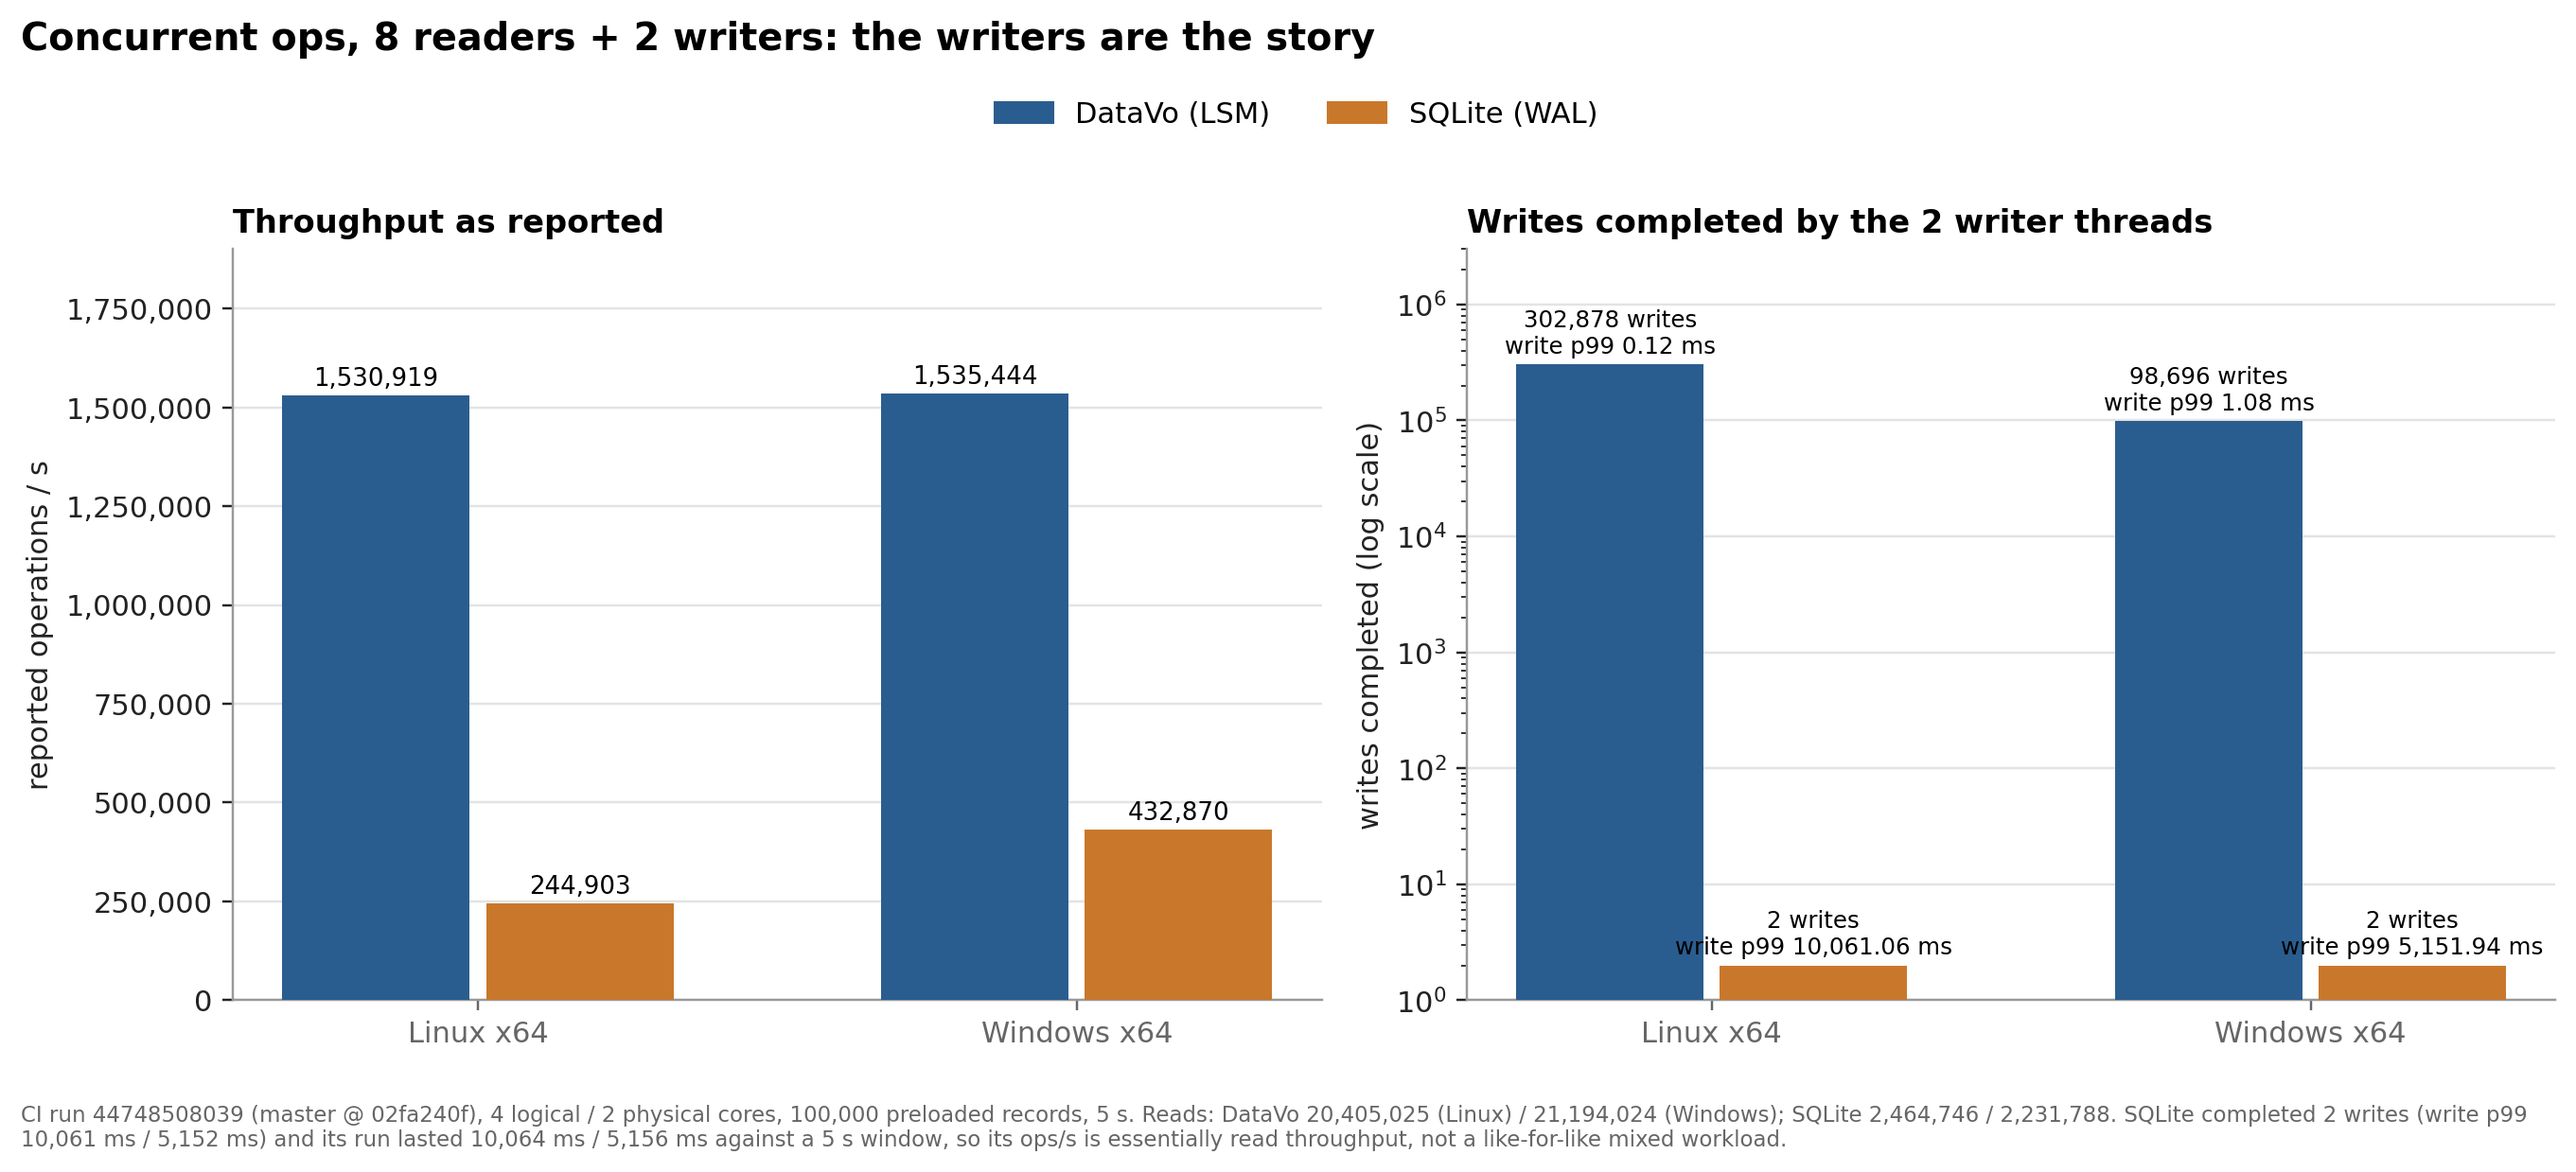
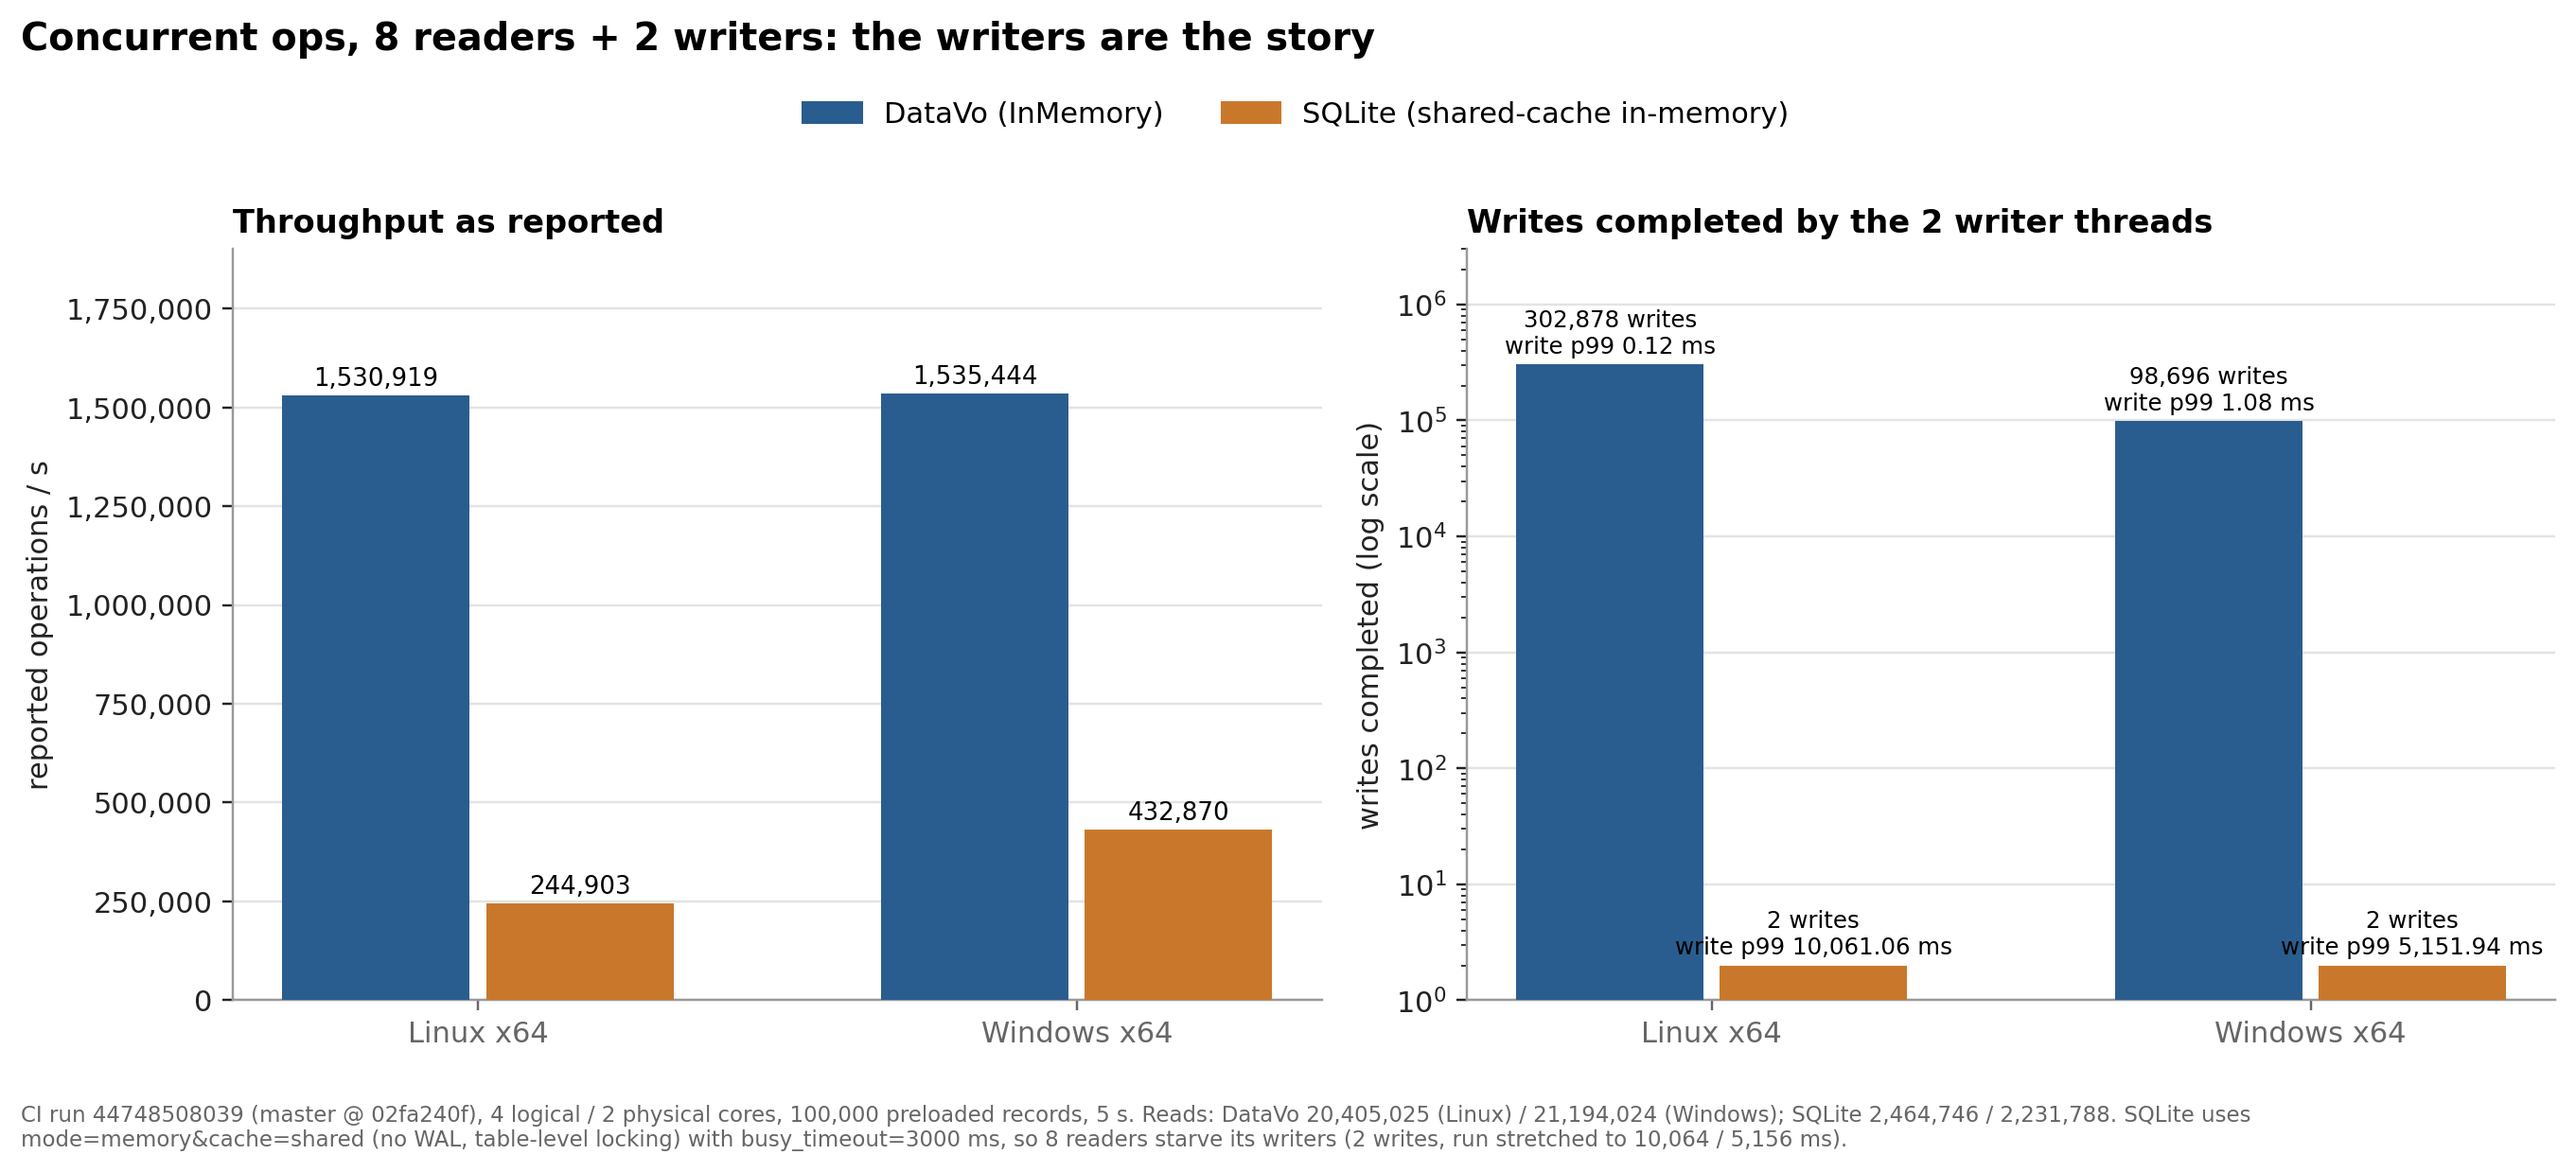
docs(blog): add complete M4 Pro metrics, explain SQLite shared-cache contention, and simplify sync boundary

Changed region(s): [[0.0, 0.9508, 0.7182, 0.9814], [0.3123, 0.0613, 0.687, 0.1227]]

diff --git a/docs/public/blog/part-1/make_charts.py b/docs/public/blog/part-1/make_charts.py
@@ -226,14 +226,14 @@ def chart4():
     b.set_ylim(1, 3e6)
     b.set_ylabel("writes completed (log scale)")
     b.set_title("Writes completed by the 2 writer threads")
-    fig.legend(handles=[Patch(color=BLUE, label="DataVo (LSM)"), Patch(color=ORANGE, label="SQLite (WAL)")], loc="upper center",
+    fig.legend(handles=[Patch(color=BLUE, label="DataVo (InMemory)"), Patch(color=ORANGE, label="SQLite (shared-cache in-memory)")], loc="upper center",
                ncol=2, frameon=False, bbox_to_anchor=(0.5, 1.0))
     fig.suptitle("Concurrent ops, 8 readers + 2 writers: the writers are the story", fontsize=13, fontweight="bold",
                  x=0.01, ha="left", y=1.05)
     fig.tight_layout(rect=(0, 0.07, 1, 0.97))
     footer(fig, "CI run 44748508039 (master @ 02fa240f), 4 logical / 2 physical cores, 100,000 preloaded records, 5 s. "
-                "Reads: DataVo 20,405,025 (Linux) / 21,194,024 (Windows); SQLite 2,464,746 / 2,231,788. SQLite completed 2 writes (write p99 10,061 ms / 5,152 ms) and its "
-                "run lasted 10,064 ms / 5,156 ms against a 5 s window, so its ops/s is essentially read throughput, not a like-for-like mixed workload.")
+                "Reads: DataVo 20,405,025 (Linux) / 21,194,024 (Windows); SQLite 2,464,746 / 2,231,788. "
+                "SQLite uses mode=memory&cache=shared (no WAL, table-level locking) with busy_timeout=3000 ms, so 8 readers starve its writers (2 writes, run stretched to 10,064 / 5,156 ms).")
     save(fig, "04-concurrent-ops.png")
 
 

diff --git a/docs/blog/part-1-where-it-wins-and-where-it-loses.md b/docs/blog/part-1-where-it-wins-and-where-it-loses.md
@@ -23,7 +23,7 @@ A few ground rules for reading the numbers:
 
 | Environment | Hardware | Runtime | Used for |
 | --- | --- | --- | --- |
-| macOS | Apple M4 Pro, 12 cores, 48 GiB | .NET 10.0.3, macOS 26.3 | SQL and vector matrix (17 Nov), storage workloads (12 Nov) |
+| macOS (M4 Pro) | Apple M4 Pro, 12 cores, 48 GiB | .NET 10.0.3, macOS 26.3 | BenchmarkDotNet lookups/aggregates (`02fa240f`, 20 Nov), SQL/vector matrix (17 Nov), storage workloads (12 Nov) |
 | Linux x64 CI | AMD EPYC 9V45, 4 logical / 2 physical cores | .NET 10.0.15, Ubuntu 26.04 | BenchmarkDotNet and research matrix, run `44748508039` (20 Nov) |
 | Windows x64 CI | Xeon Platinum 8370C, 4 logical / 2 physical cores, Hyper-V | .NET 10.0.15, Windows 11 24H2 | same run |
 | Sync CI | Ubuntu 26.04 x64, **2 vCPU**, PostgreSQL 17.12, ElectricSQL 1.8.1 in Docker | .NET 10.0.15 | DataVo-Sync end-to-end, run `44756364158` (20 Nov) |
@@ -46,17 +46,11 @@ What this is not: DataVo is not a client/server database. One process owns a dat
 
 ```mermaid
 flowchart LR
-  subgraph PG["PostgreSQL 17"]
-    WAL[("WAL, wal_level=logical")]
-  end
+  PG[("PostgreSQL 17")] <-->|"bidirectional sync"| SYNC["DataVo-Sync (commercial)"]
+  SYNC <-->|"WebSocket / Wire v2"| CORE
 
-  subgraph Hub["DataVo-Sync server (commercial)"]
-    DEC["pgoutput decoder"] --> ZS["Z-set deltas, compacted"]
-    ZS --> WIRE["Wire v2 + Brotli"]
-  end
-
-  subgraph App["Application process"]
-    subgraph Core["DataVo.Core (MIT)"]
+  subgraph APP["Application process"]
+    subgraph CORE["DataVo.Core (MIT)"]
       SQL["SQL text / compiled LINQ"] --> TYPED["Typed paths"]
       SQL --> GEN["General path"]
       TYPED --> MEM["InMemory: FlatRowStore"]
@@ -64,14 +58,7 @@ flowchart LR
       SQL --> VEC["Flat / HNSW vector search"]
       SQL --> IVM["Z-set incremental views"]
     end
-    OUTBOX[("Outbox")]
   end
-
-  WAL -->|logical replication| DEC
-  WIRE -->|WebSocket| Core
-  Core --> OUTBOX
-  OUTBOX -->|"upload, per-column conflict resolution"| Hub
-  Hub -->|write-back| PG
 ```
 
 ### The storage engines
@@ -98,9 +85,7 @@ DataVo can keep a query result up to date as rows change, using the model from B
 
 ### DataVo-Sync
 
-I describe DataVo-Sync at the level of protocol and behaviour only, because it is a commercial product.
-
-PostgreSQL logical replication (`pgoutput`) is decoded into Z-set deltas, compacted, and sent to clients as a columnar wire format (wire v2) compressed with Brotli over WebSocket. The client applies the deltas to a local DataVo store, either `InMemory` or `Lsm`. Local writes go into a crash-recoverable outbox and are uploaded, with conflicts resolved per column (last writer wins), and written back to PostgreSQL.
+Because DataVo-Sync is a commercial product, I keep its internal architecture private and describe only the external behaviour tested here. It pairs a sync server connected to PostgreSQL logical replication with an embedded client library that writes into a local DataVo store (`InMemory` or `Lsm`), transfers compressed columnar deltas over WebSocket (wire v2 + Brotli), and queues offline local writes for upload and conflict resolution.
 
 ## 3. Engine benchmarks and correctness
 
@@ -123,12 +108,13 @@ BenchmarkDotNet, 100,000 rows for lookups and 200,000 rows for aggregates, same 
 
 | Primary-key lookup | DataVo, memory | DataVo, file (LSM) | SQLite, memory | SQLite, file | DuckDB, 1 thread, file |
 | --- | ---: | ---: | ---: | ---: | ---: |
+| Apple M4 Pro (`02fa240f`, 20 Nov) | 55.0 ns | 216.2 ns | 715.7 ns | 1,654.0 ns | 62.7 µs |
 | Linux x64 | 130.8 ns | 288.3 ns | 1,398.2 ns | 3,642.7 ns | 204.1 µs |
 | Windows x64 | 239.6 ns | 666.9 ns | 2,024.0 ns | 6,741.1 ns | 380.7 µs |
-| Apple M4 Pro (13 Nov) | 52.1 ns | 236.0 ns | 735.6 ns | 1,609.4 ns | 64.9 µs |
 
 | Filtered `COUNT(*)`, `[Columnar]` | DataVo, memory | DataVo, file | SQLite, memory | SQLite, file | DuckDB 1 thread, file |
 | --- | ---: | ---: | ---: | ---: | ---: |
+| Apple M4 Pro (`02fa240f`, 20 Nov) | 27.11 µs | 27.44 µs | 3,655.8 µs | 4,449.5 µs | 229.8 µs |
 | Linux x64 | 9.29 µs | 8.81 µs | 4,553.2 µs | 5,603.4 µs | 538.4 µs |
 | Windows x64 | 16.20 µs | 15.94 µs | 8,607.6 µs | 13,446.1 µs | 1,102.2 µs |
 
@@ -154,37 +140,39 @@ On 20 November, at `master` @ `02fa240f`, the same scenario completes writes on 
 
 | Platform | Engine | Reported ops/s | Reads | Writes | Read p99 | Write p99 |
 | --- | --- | ---: | ---: | ---: | ---: | ---: |
-| Linux x64 | DataVo | 1,530,919 | 20,405,025 | 302,878 | 0.007 ms | 0.125 ms |
-| Linux x64 | SQLite | 244,903 | 2,464,746 | 2 | 0.118 ms | 10,061 ms |
-| Windows x64 | DataVo | 1,535,444 | 21,194,024 | 98,696 | 0.009 ms | 1.084 ms |
-| Windows x64 | SQLite | 432,870 | 2,231,788 | 2 | 0.041 ms | 5,152 ms |
+| Apple M4 Pro (12 Nov) | DataVo (`InMemory`) | 1,852,526 | — | — | 0.048 ms | 0.112 ms |
+| Apple M4 Pro (12 Nov) | SQLite (`shared-cache`) | 372,220 | — | — | 0.120 ms | 5,135 ms |
+| Linux x64 | DataVo (`InMemory`) | 1,530,919 | 20,405,025 | 302,878 | 0.007 ms | 0.125 ms |
+| Linux x64 | SQLite (`shared-cache`) | 244,903 | 2,464,746 | 2 | 0.118 ms | 10,061 ms |
+| Windows x64 | DataVo (`InMemory`) | 1,535,444 | 21,194,024 | 98,696 | 0.009 ms | 1.084 ms |
+| Windows x64 | SQLite (`shared-cache`) | 432,870 | 2,231,788 | 2 | 0.041 ms | 5,152 ms |
 
-Between the two runs, a series of lock and snapshot changes landed: commit-ordered snapshots, bounded waits on the snapshot gate, correct accounting of write-lock owners, and coordination between row write locks and table write locks. I have not bisected them, so I cannot tell you which one removed the starvation. I would be more comfortable with an answer than with this paragraph.
+Between the two runs, a series of lock and snapshot changes landed: commit-ordered snapshots, bounded waits on the snapshot gate, correct accounting of write-lock owners, and coordination between row write locks and table write locks. I have not bisected them, so I cannot tell you which one removed the starvation.
 
-The SQLite column deserves its own warning. SQLite completed two writes in the run, and the harness reports a total of 10,064 ms (Linux) and 5,156 ms (Windows) for a nominal 5-second window. My earlier results page attributed the multi-second write p99 to a writer waiting out its busy timeout, and I have not investigated further. So SQLite's ops/s here is essentially read throughput with the writers shut out. It is a property of this contention setup, ten threads on four cores, not a typical SQLite write latency, and I would not use it to claim that DataVo handles mixed load several times better.
+The SQLite numbers look strange at first glance — **two** writes in 5 seconds, with a 5–10 second write p99 — and the reason is in `SqliteConcurrentOpsEngine.cs` itself rather than SQLite WAL performance. The benchmark opens SQLite with `mode=memory&cache=shared`, which does not use WAL; under shared-cache mode, SQLite takes table-level shared-cache locks (`SQLITE_LOCKED`), so 8 continuous reader threads starve the 2 writer threads until `PRAGMA busy_timeout = 3000` expires repeatedly. The harness catches `SQLITE_BUSY`/`SQLITE_LOCKED` to keep running, stretching the 5-second window to 10,064 ms (Linux) and 5,156 ms (Windows). In short: both engines here run in memory, DataVo handles the 8+2 contention without starving writers, while the SQLite runner configuration serializes shared-cache locks and should not be read as SQLite WAL mixed-load behaviour.
 
 ### Durable commits and YCSB
 
 | 50,000 durable point updates, median latency | Linux x64 | Windows x64 | M4 Pro (20,000 updates, 12 Nov) |
 | --- | ---: | ---: | ---: |
-| DataVo Production (`StrictFsync`) | 0.2405 ms | 3.9163 ms | 4.04 ms |
-| SQLite WAL `FULL` | 0.1076 ms | 3.9218 ms | 4.04 ms |
-| DataVo Relaxed | 0.0086 ms | 0.0272 ms | |
-| SQLite WAL `NORMAL` | 0.0114 ms | 0.0134 ms | |
+| DataVo Production (`StrictFsync`) | 0.2405 ms | 3.9163 ms | 4.0396 ms |
+| SQLite WAL `FULL` | 0.1076 ms | 3.9218 ms | 4.0419 ms |
+| DataVo Relaxed | 0.0086 ms | 0.0272 ms | 0.0045 ms |
+| SQLite WAL `NORMAL` | 0.0114 ms | 0.0134 ms | 0.0054 ms |
 
 Where the device flush costs milliseconds, as on the Mac's SSD and the Windows runner, the two durable engines are indistinguishable. The cost is the flush, and neither engine can skip it. That is the honest result, and it is the subject of Part 3.
 
 On the Linux runner the flush is cheap, and then SQLite is faster: 0.1076 ms against 0.2405 ms per update, and 6.8 s against 13.3 s over 50,000. DataVo also allocates more per update (968.2 B against 512.1 B). I have not profiled the Production commit path. The group-commit machinery is the obvious place to look, and that is an inference from the design rather than a finding.
 
-YCSB (80% reads, 20% updates, 4 threads, 100,000 preloaded records), matched at Relaxed against `NORMAL`:
+YCSB (80% reads, 20% updates, 4 threads on x64 / 12 threads on M4 Pro, 100,000 preloaded records), matched at Relaxed against `NORMAL`:
 
 | | DataVo Relaxed | SQLite `NORMAL` | DataVo Production |
 | --- | ---: | ---: | ---: |
 | Linux x64 | 230,912 ops/s, write p99 0.43 ms | 98,295 ops/s, 3.20 ms | 35,645 ops/s, 1.13 ms |
 | Windows x64 | 70,735 ops/s, write p99 1.05 ms | 33,256 ops/s, 7.49 ms | 1,360 ops/s, 48.67 ms |
-| M4 Pro, 12 threads | 510,695 ops/s, 0.66 ms | 261,618 ops/s, 3.77 ms | |
+| M4 Pro (12 Nov) | 510,695 ops/s, 0.66 ms | 261,618 ops/s, 3.77 ms | 4,326 ops/s, 27.83 ms |
 
-There is no SQLite `FULL` row in the YCSB logs, so the Production column has no matched comparator. It is there to show what the flush costs on Windows.
+There is no SQLite `FULL` row in the YCSB logs, so the Production column has no matched comparator. It is there to show what the flush costs on Windows and macOS.
 
 ### Space, recovery, and the matrix
 
@@ -192,6 +180,9 @@ There is no SQLite `FULL` row in the YCSB logs, so the Production column has no 
 
 | | Insert | On disk | Reopen | First read after |
 | --- | ---: | ---: | ---: | ---: |
+| DataVo Production, M4 Pro (12 Nov) | 731.8 ms | 27.725 MB | 4.3 ms | — |
+| DataVo Relaxed, M4 Pro (12 Nov) | 473.2 ms | 27.725 MB | 1.5 ms | — |
+| SQLite `NORMAL`, M4 Pro (12 Nov) | 712.5 ms | 29.082 MB | 0.4 ms | — |
 | DataVo Production, Linux | 1,365.8 ms | 28.155 MB | 27.3 ms | 10.4 ms |
 | DataVo Relaxed, Linux | 946.4 ms | 28.155 MB | 1.6 ms | 0.1 ms |
 | SQLite `NORMAL`, Linux | 1,839.1 ms | 29.082 MB | 0.6 ms | 3.9 ms |
@@ -383,7 +374,7 @@ C3 (`SUM` of a `DOUBLE`) is a deliberate loss on LSM: floating-point addition is
 
 - **Part 2.** Packed byte buffers and Roslyn codegen: how a 52 ns point lookup is built, and what it cost in complexity.
 - **Part 3.** What an fsync costs, across operating systems: the 4 ms tie, the 0.1 ms Linux case, and the Windows scaling problem.
-- **Part 4.** Z-sets, from incremental views to a 36 MB sync: how one data model serves both.
+- **Part 4.** Cutting 100k-row sync allocations from 1.2 GB to 36 MB: zero-allocation initial sync and compressed columnar wire transfer.
 - **Part 5.** HNSW, the JIT, and the exact fallback: recall on clustered data, and why a graph search sometimes loses to a scan.
 - **Part 6.** Differential oracle testing: how the matrix found five wrong answers before I had tuned anything.
 
